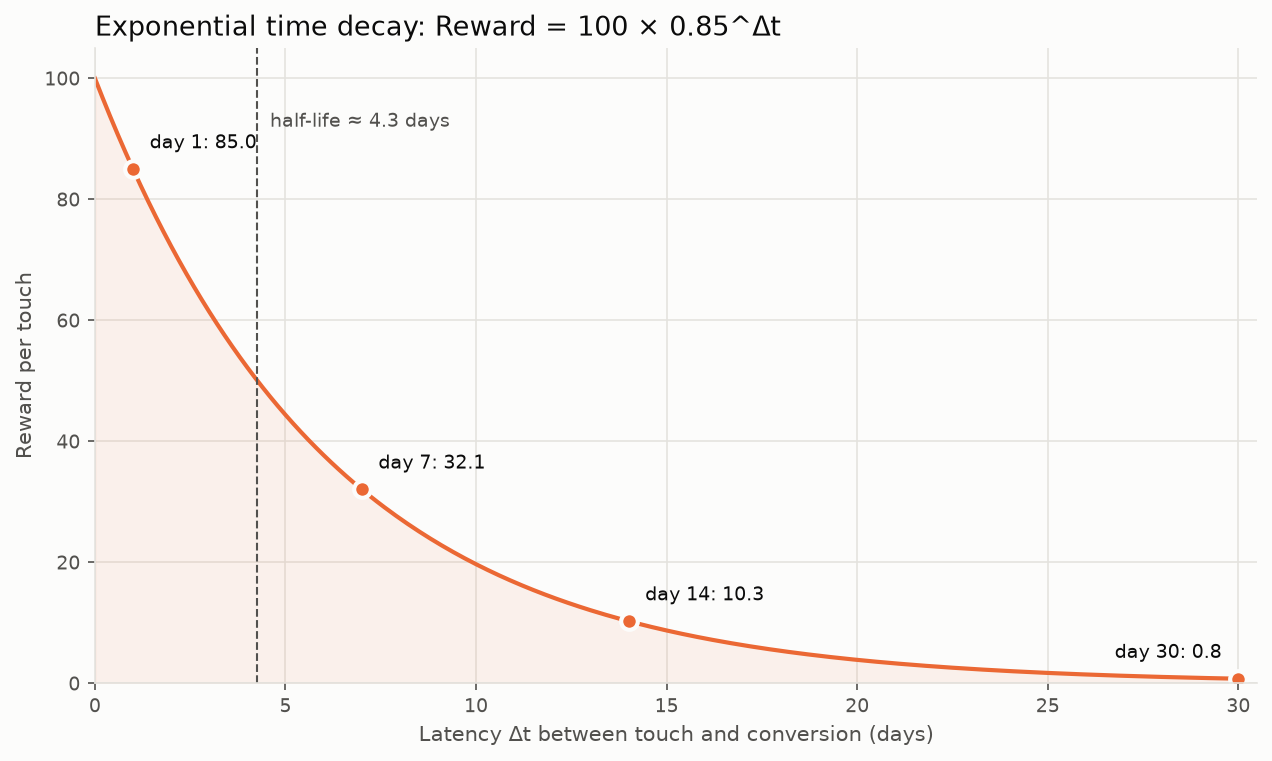
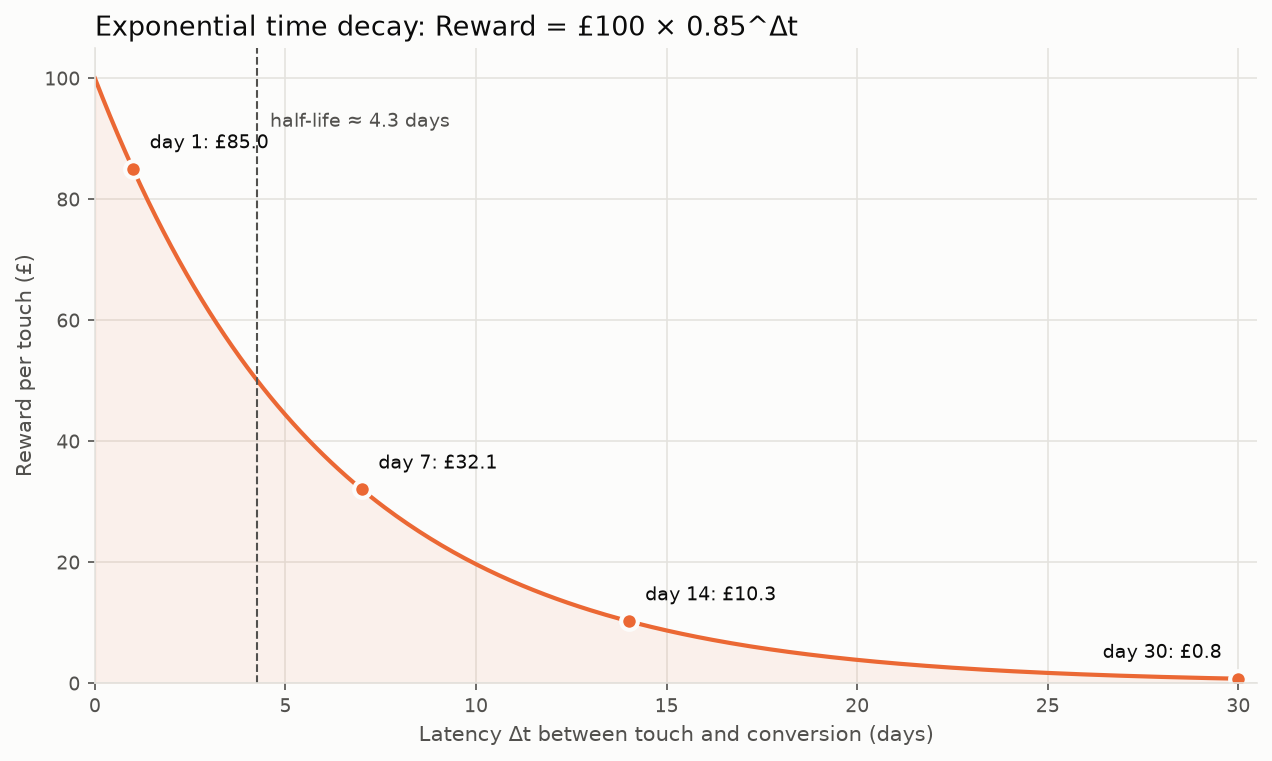
updated with final changes and test run

diff --git a/src/visualizer.py b/src/visualizer.py
@@ -6,7 +6,9 @@ they wrote, so they work on servers and in CI without a display.
 
 from __future__ import annotations
 
+import io
 import math
+import time
 from pathlib import Path
 
 import matplotlib
@@ -16,6 +18,8 @@ matplotlib.use("Agg")
 import matplotlib.pyplot as plt  # noqa: E402
 import networkx as nx  # noqa: E402
 import pandas as pd  # noqa: E402
+
+from . import CURRENCY_SYMBOL  # noqa: E402
 
 DEFAULT_OUTPUT_DIR = Path("output")
 
@@ -45,8 +49,19 @@ def _style_axes(ax: plt.Axes) -> None:
 def _save(fig: plt.Figure, path: Path) -> Path:
     """Save ``fig`` to ``path`` (creating parent dirs) and close it."""
     path.parent.mkdir(parents=True, exist_ok=True)
-    fig.savefig(path, dpi=150, bbox_inches="tight", facecolor=SURFACE)
+    buffer = io.BytesIO()
+    fig.savefig(buffer, format="png", dpi=150, bbox_inches="tight", facecolor=SURFACE)
     plt.close(fig)
+    # On Windows an image viewer or IDE preview can briefly lock the old PNG,
+    # so retry the write a few times before giving up.
+    for attempt in range(5):
+        try:
+            path.write_bytes(buffer.getvalue())
+            return path
+        except OSError:
+            if attempt == 4:
+                raise
+            time.sleep(0.3 * (attempt + 1))
     return path
 
 
@@ -166,13 +181,13 @@ def plot_attribution_comparison(
     mk = ax.bar([i + bar_w / 2 + 0.01 for i in x], df["markov_revenue"], bar_w,
                 label="Markov velocity-adjusted revenue", color=SERIES_2)
     for bars in (lt, mk):
-        ax.bar_label(bars, labels=[f"${v:,.0f}" for v in bars.datavalues], padding=3,
+        ax.bar_label(bars, labels=[f"{CURRENCY_SYMBOL}{v:,.0f}" for v in bars.datavalues], padding=3,
                      fontsize=8, color=TEXT_SECONDARY)
 
     ax.set_xticks(list(x))
     ax.set_xticklabels([c.replace("_", " ") for c in campaigns], color=TEXT_PRIMARY)
-    ax.set_ylabel("Attributed revenue ($)", color=TEXT_SECONDARY)
-    ax.yaxis.set_major_formatter(matplotlib.ticker.StrMethodFormatter("${x:,.0f}"))
+    ax.set_ylabel(f"Attributed revenue ({CURRENCY_SYMBOL})", color=TEXT_SECONDARY)
+    ax.yaxis.set_major_formatter(matplotlib.ticker.StrMethodFormatter(CURRENCY_SYMBOL + "{x:,.0f}"))
     ax.set_title("Last-Touch vs. Discounted Markov attribution by campaign",
                  color=TEXT_PRIMARY, fontsize=13, loc="left")
     ax.legend(frameon=False, labelcolor=TEXT_PRIMARY, loc="upper right")
@@ -203,7 +218,7 @@ def plot_time_decay_curve(
             ax.plot([d], [r], "o", markersize=8, color=SERIES_2, markeredgecolor=SURFACE,
                     markeredgewidth=2)
             at_edge = d >= days * 0.9
-            ax.annotate(f"day {d}: {r:.1f}", (d, r), textcoords="offset points",
+            ax.annotate(f"day {d}: {CURRENCY_SYMBOL}{r:.1f}", (d, r), textcoords="offset points",
                         xytext=(-8 if at_edge else 8, 10), ha="right" if at_edge else "left",
                         fontsize=9, color=TEXT_PRIMARY)
 
@@ -218,7 +233,7 @@ def plot_time_decay_curve(
     ax.set_xlim(0, days + 0.5)
     ax.set_ylim(0, base_reward * 1.05)
     ax.set_xlabel("Latency Δt between touch and conversion (days)", color=TEXT_SECONDARY)
-    ax.set_ylabel("Reward per touch", color=TEXT_SECONDARY)
-    ax.set_title(f"Exponential time decay: Reward = {base_reward:g} × {gamma:g}^Δt",
+    ax.set_ylabel(f"Reward per touch ({CURRENCY_SYMBOL})", color=TEXT_SECONDARY)
+    ax.set_title(f"Exponential time decay: Reward = {CURRENCY_SYMBOL}{base_reward:g} × {gamma:g}^Δt",
                  color=TEXT_PRIMARY, fontsize=13, loc="left")
     return _save(fig, output_dir / filename)

diff --git a/run_demo.py b/run_demo.py
@@ -42,7 +42,7 @@ def parse_args(argv: list[str] | None = None) -> argparse.Namespace:
     parser = argparse.ArgumentParser(description=__doc__.splitlines()[0])
     parser.add_argument("--customers", type=int, default=500, help="customers to simulate (default 500)")
     parser.add_argument("--gamma", type=float, default=0.85, help="daily discount factor (default 0.85)")
-    parser.add_argument("--base-reward", type=float, default=100.0, help="reward per conversion (default 100)")
+    parser.add_argument("--base-reward", type=float, default=100.0, help="reward per conversion in GBP (default 100)")
     parser.add_argument("--seed", type=int, default=42, help="RNG seed; use -1 for a random run")
     parser.add_argument("--db", type=Path, default=ROOT / "marketing_graph.db", help="SQLite file path")
     parser.add_argument("--output", type=Path, default=ROOT / "output", help="folder for PNG charts")
@@ -53,13 +53,15 @@ def print_summary(comparison, top_paths, gamma: float) -> None:
     """Print the campaign comparison table and the most common paths."""
     from tabulate import tabulate
 
+    from src import CURRENCY_SYMBOL
+
     rows = [
         [
             r.campaign,
             r.total_conversions,
             f"{r.avg_latency_days:.2f}",
-            f"${r.last_touch_revenue:,.2f}",
-            f"${r.markov_revenue:,.2f}",
+            f"{CURRENCY_SYMBOL}{r.last_touch_revenue:,.2f}",
+            f"{CURRENCY_SYMBOL}{r.markov_revenue:,.2f}",
             f"{(r.markov_share - r.last_touch_share) * 100:+.1f} pp",
         ]
         for r in comparison.itertuples(index=False)
@@ -68,16 +70,16 @@ def print_summary(comparison, top_paths, gamma: float) -> None:
         "TOTAL",
         "",
         "",
-        f"${comparison['last_touch_revenue'].sum():,.2f}",
-        f"${comparison['markov_revenue'].sum():,.2f}",
+        f"{CURRENCY_SYMBOL}{comparison['last_touch_revenue'].sum():,.2f}",
+        f"{CURRENCY_SYMBOL}{comparison['markov_revenue'].sum():,.2f}",
         "",
     ])
     headers = [
         "Campaign Name",
         "Total Conversions",
         "Avg Latency (Days)",
-        "Last-Touch Revenue",
-        f"Markov Velocity-Adj. Revenue (γ={gamma:g})",
+        "Last-Touch Revenue (GBP)",
+        f"Markov Velocity-Adj. Revenue (GBP, γ={gamma:g})",
         "Share Shift",
     ]
     print(tabulate(rows, headers=headers, tablefmt="rounded_outline",

diff --git a/src/generator.py b/src/generator.py
@@ -18,6 +18,7 @@ import random
 from dataclasses import dataclass, field
 from datetime import datetime, timedelta
 
+from . import CURRENCY_CODE
 from .database import GraphDatabase
 
 TIMESTAMP_FORMAT = "%Y-%m-%dT%H:%M:%S"
@@ -35,6 +36,7 @@ CHANNELS: dict[str, dict[str, str]] = {
 # stage: 0.0 = top-of-funnel awareness, 1.0 = bottom-of-funnel closer.
 # view_prob: probability a touch is a passive VIEW rather than a CLICK.
 # popularity: relative reach of the campaign.
+# cost_per_touch: media cost per impression/click in GBP.
 CAMPAIGNS: dict[str, dict] = {
     "LinkedIn_Video_Ad": {
         "channel_id": "channel:social", "stage": 0.10, "view_prob": 0.70,
@@ -154,6 +156,7 @@ def generate_dataset(
             "channel_id": cfg["channel_id"],
             "funnel_stage": cfg["stage"],
             "cost_per_touch": cfg["cost_per_touch"],
+            "currency": CURRENCY_CODE,
         }))
 
     touch_counts = list(TOUCH_COUNT_WEIGHTS)
@@ -195,6 +198,7 @@ def generate_dataset(
                 "channel_id": cfg["channel_id"],
                 "touch_index": idx + 1,
                 "cost": cfg["cost_per_touch"],
+                "currency": CURRENCY_CODE,
             }))
             summary.touchpoints += 1
 

diff --git a/src/engine.py b/src/engine.py
@@ -14,6 +14,7 @@ All path traversal and latency maths runs inside SQLite:
 Both models therefore value a conversion at ``Base_Reward``; the Markov model
 spreads (and time-discounts) that value over every touch in the path, so slow,
 lagging journeys earn less "velocity-adjusted" revenue than fast ones.
+All monetary values are in British pounds (GBP, £).
 """
 
 from __future__ import annotations

diff --git a/src/__init__.py b/src/__init__.py
@@ -11,3 +11,7 @@ modelled as nodes (Customer, Campaign, Channel, Conversion) and edges
 """
 
 __version__ = "1.0.0"
+
+# All monetary values (rewards, revenue, costs) are in British pounds.
+CURRENCY_CODE = "GBP"
+CURRENCY_SYMBOL = "£"

diff --git a/README.md b/README.md
@@ -9,7 +9,7 @@ It runs locally with no servers or paid services. Customer journeys are stored a
 | **Last-Touch** | The final touch before a conversion gets the full `Base_Reward`. |
 | **Discounted Markov (velocity-adjusted)** | Every touch on the path earns `Base_Reward × γ^Δt`, where `Δt` is the number of days between that touch and the conversion. |
 
-The defaults are `γ = 0.85` and `Base_Reward = 100.0`. That gives a half-life of about 4.3 days: a touch one day before a conversion earns 85, a touch one week before earns 32, and a touch a month before earns less than 1.
+All monetary values are in British pounds (GBP, £). The defaults are `γ = 0.85` and `Base_Reward = £100.00`. That gives a half-life of about 4.3 days: a touch one day before a conversion earns £85, a touch one week before earns £32, and a touch a month before earns less than £1.
 
 ## Quick start
 
@@ -31,7 +31,7 @@ The demo:
 ### Options
 
 ```
-python run_demo.py --customers 2000 --gamma 0.9 --base-reward 250 --seed 7
+python run_demo.py --customers 2000 --gamma 0.9 --base-reward 250 --seed 7   # £250 per conversion
 python run_demo.py --seed -1          # different random data every run
 python run_demo.py --db other.db --output charts/
 ```
@@ -105,7 +105,7 @@ Each model's total differs. Last-Touch credits exactly one touch per conversion.
 |---|---|
 | `output/customer_journey_graph.png` | A NetworkX directed graph of the top 15 converting paths (Start → campaigns → Conversion), with edge width scaled to journey count. |
 | `output/attribution_comparison.png` | Last-Touch vs. Markov revenue for each campaign. |
-| `output/time_decay_curve.png` | The decay curve `100 × 0.85^Δt` over 30 days, with the half-life marked. |
+| `output/time_decay_curve.png` | The decay curve `£100 × 0.85^Δt` over 30 days, with the half-life marked. |
 
 ## Project layout
 
